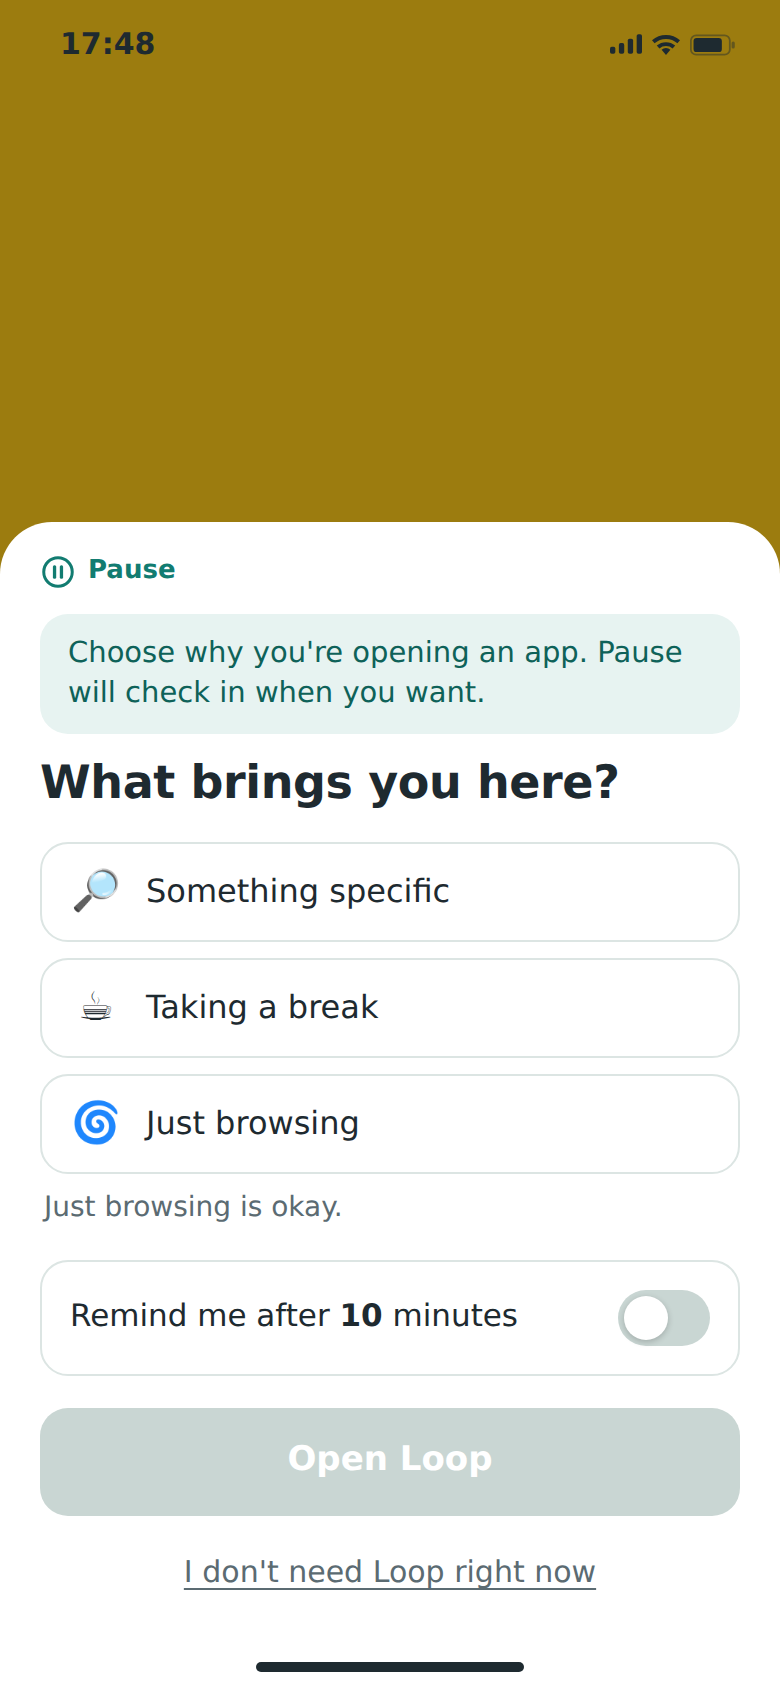
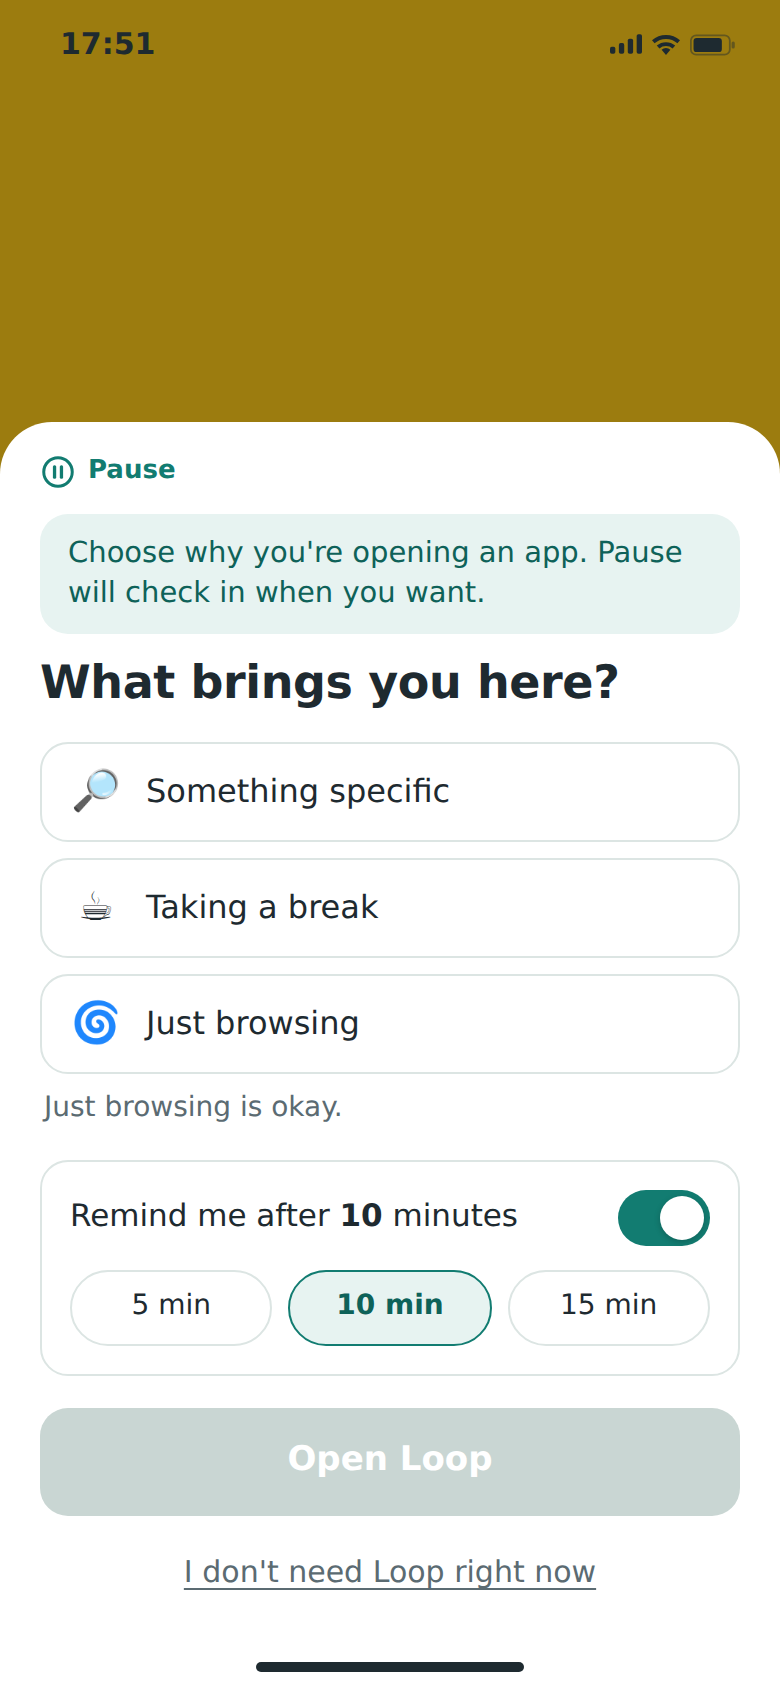
Switch the reminder on by default
The purpose screen now starts with "Remind me after 10 minutes" on; the
participant can switch it off, and ?remind=off or the console setting turns
the default off. Screenshots retaken.

Claude-Session: https://claude.ai/code/session_01DMhTpXsU3YFuW6W5HLrjFW

diff --git a/index.html b/index.html
@@ -395,8 +395,8 @@ dialog::backdrop{background:rgba(10,20,22,.45)}
         <p class="help">Switch halfway through each participant, and reverse the order for every second participant.</p></div>
       <div class="row"><span class="rl" id="lblRemind">Reminder starts</span>
         <div class="segc" role="group" aria-labelledby="lblRemind" data-setting="remind">
-          <button type="button" data-v="off">Off</button><button type="button" data-v="on">On (10 min)</button></div>
-        <p class="help">Whether "Remind me after 10 minutes" is switched on when the purpose screen opens. The participant can change it either way.</p></div>
+          <button type="button" data-v="on">On (10 min)</button><button type="button" data-v="off">Off</button></div>
+        <p class="help">Whether "Remind me after 10 minutes" is switched on when the purpose screen opens. The participant can switch it off. Starting it on is a nudge, so keep this the same for every participant.</p></div>
       <div class="row"><span class="rl" id="lblReflect">In-app reflection</span>
         <div class="segc" role="group" aria-labelledby="lblReflect" data-setting="reflect">
           <button type="button" data-v="off">Off: ask after the task</button><button type="button" data-v="on">On</button></div>
@@ -584,9 +584,9 @@ const MARK_SVG = (size=20) => `<svg width="${size}" height="${size}" viewBox="0 
 const mark = () => `<div class="mark">${MARK_SVG(18)}<span>Pause</span></div>`;
 
 /* ---------------- State ---------------- */
-const STORE = 'pause.v5';
+const STORE = 'pause.v6';
 const S = {
-  settings:{pid:'P01', weekStart:0, reward:'A', breath:false, speed:1, pause:'on', remind:'off', reflect:'off'},
+  settings:{pid:'P01', weekStart:0, reward:'A', breath:false, speed:1, pause:'on', remind:'on', reflect:'off'},
   week:{stops:0, goal:null, seed:0, intro:false, bar:{}},
   debrief:{}, db:{},
   sessionN:0, screen:'home', cur:null, log:[], sim:Date.now()

diff --git a/presentation/evidence.md b/presentation/evidence.md
@@ -145,6 +145,7 @@ participants.
 | v4 → v5 | Finishing returns home with a brief "You chose when to stop." (and the plant in B); no tap needed | The acknowledgement shouldn't cost another decision |
 | v4 → v5 | In-app reflection off by default; asked after the task instead | Keeps the exit short and measures both conditions the same way |
 | v4 → v5 | Pause explained once on first use; home bar labelled "Finish session" in each condition's first session | A simulated phone's tappable bar isn't obviously an exit |
+| v5 | Reminder switched on by default (10 minutes); participants can switch it off | So every participant reaches the reminder screen; a default is a nudge, so it stays the same for everyone |
 
 ### After the pilot
 

diff --git a/README.md b/README.md
@@ -39,7 +39,7 @@ https://natashaa27.github.io/sdt-doomscrolling/?participant=1&speed=1&reward=A
 | `reward` | `A`, `B` | `A` |
 | `pause` | `off` for the baseline condition | `on` |
 | `goal` | `5`, `10`, `15` (optional weekly goal) | none |
-| `remind` | `on` to start with the reminder switched on | `off` |
+| `remind` | `off` to start with the reminder switched off | `on` (10 min) |
 | `reflect` | `on` to show the reflection questions in the app | `off` |
 | `breath` | `on` for the 3-second breath | off |
 | `pid` | participant ID | `P01` |
